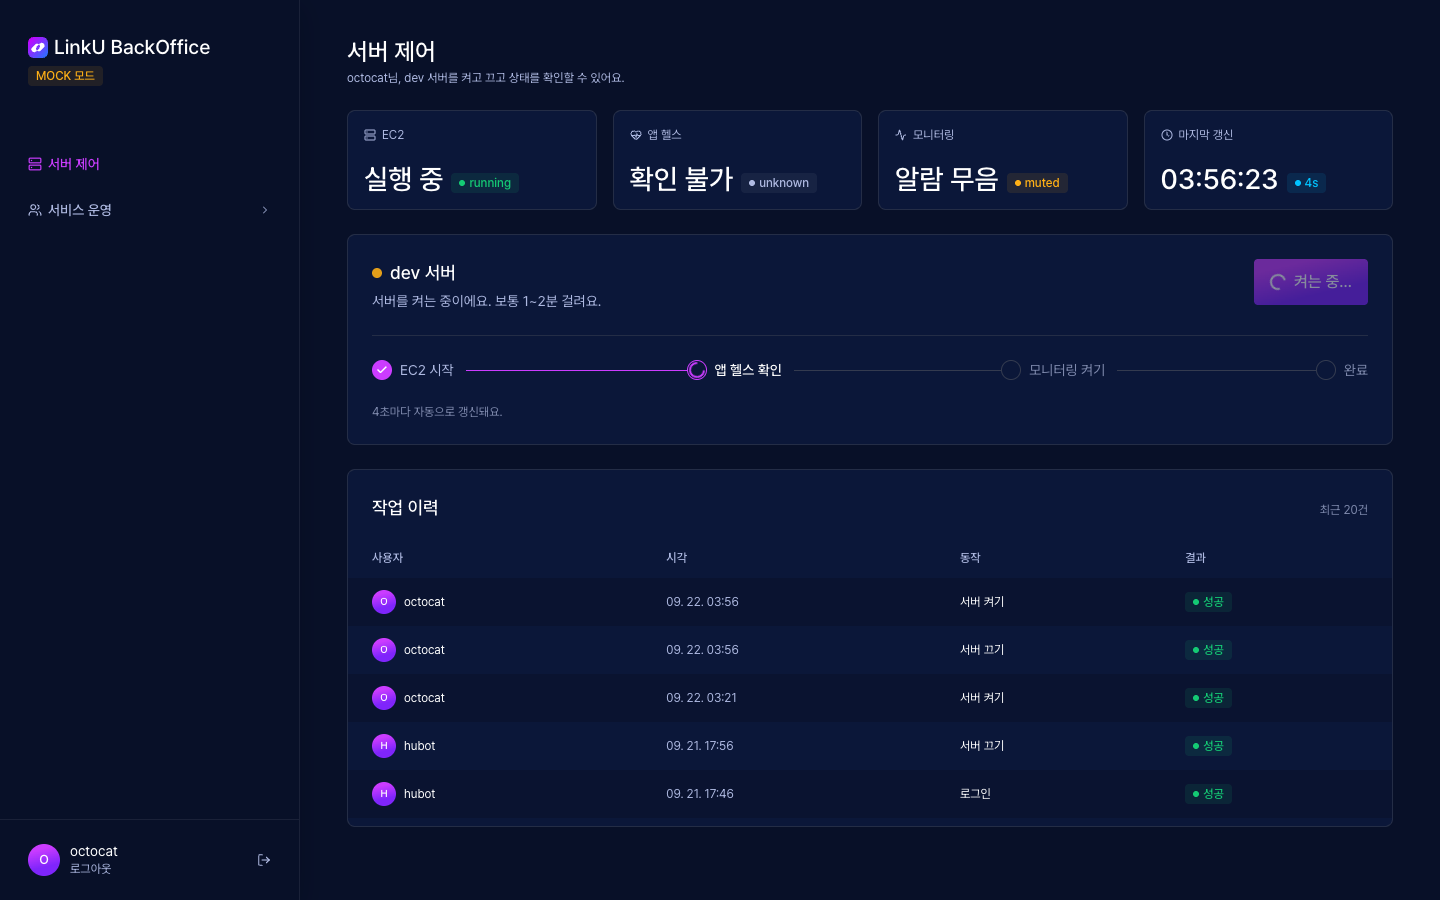
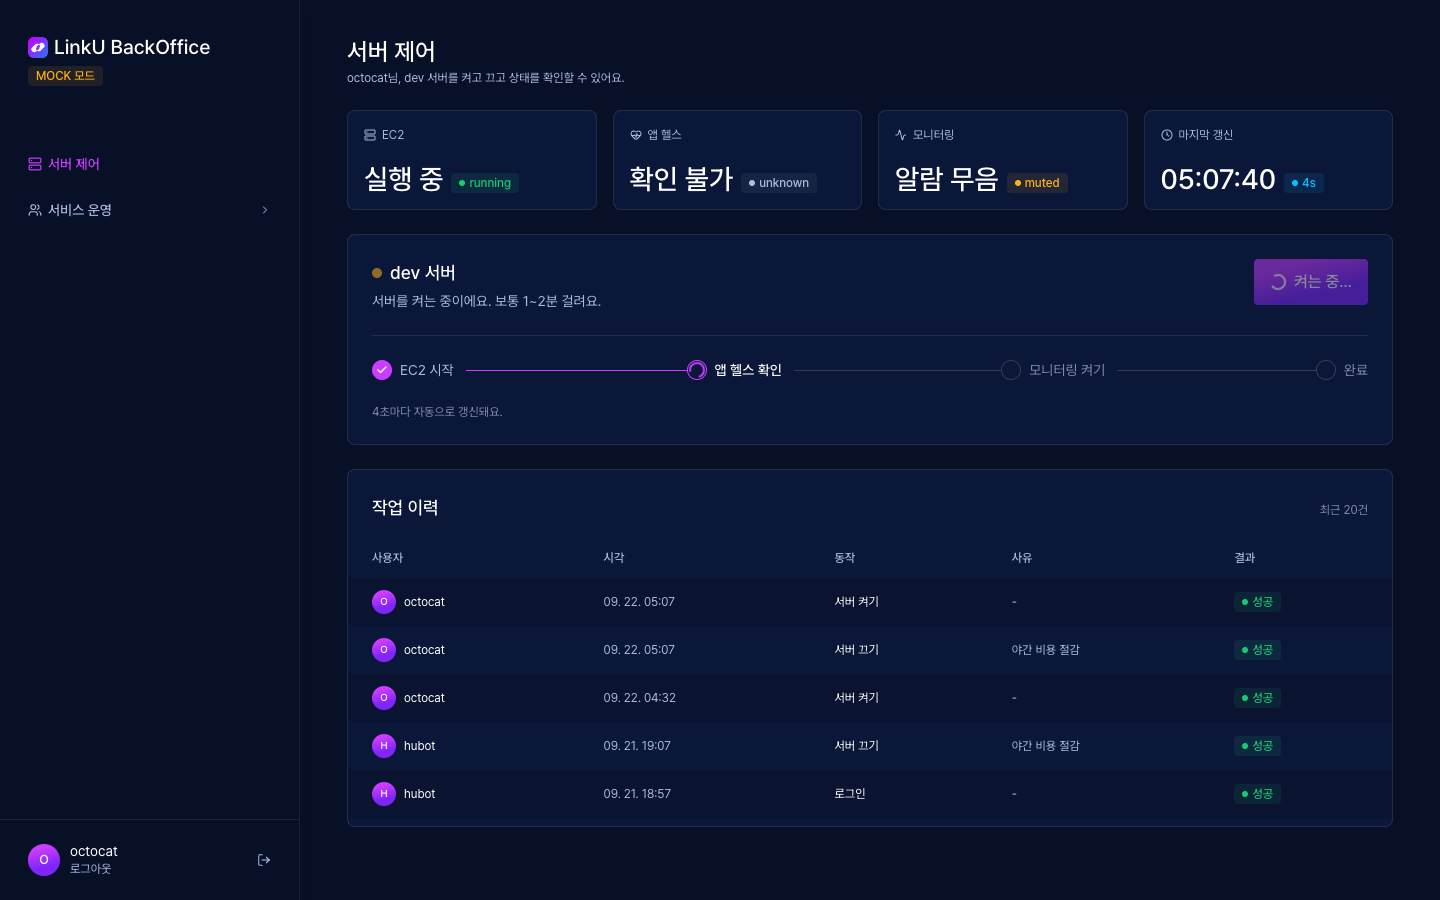
docs: 서버 끄기 사유가 반영된 화면 캡처로 갱신
끄기 확인창의 사유 입력칸과 이력 표의 사유 칸이 보이도록 화면 캡처 6장을 다시 찍고, README 의 서버 끄기 설명에 사유 입력을 추가한다.

diff --git a/README.md b/README.md
@@ -14,12 +14,12 @@ LinkYou 프로젝트의 인프라 관리 & 서비스 운영을 위한 BackOffice
 GitHub 조직 멤버만 로그인할 수 있어요.
 
 ### 2⃣ 서버 상태 확인
-EC2 · 앱 헬스 · 모니터링 상태와 작업 이력을 한눈에 볼 수 있어요.
+EC2 · 앱 헬스 · 모니터링 상태와 작업 이력(누가, 언제, 무엇을, 왜)을 한눈에 볼 수 있어요.
 
 <img src="docs/screenshots/02-server-on.png" width="800" alt="서버 제어 (켜짐)">
 
 ### 3⃣ 서버 끄기
-`서버 끄기`를 누르면 확인창이 떠요.
+`서버 끄기`를 누르면 확인창이 떠요. **끄는 사유**(2~100자)를 입력해야 확인할 수 있고, 이력에 기록돼요.
 
 <img src="docs/screenshots/03-confirm-stop.png" width="800" alt="서버 끄기 확인">
 
